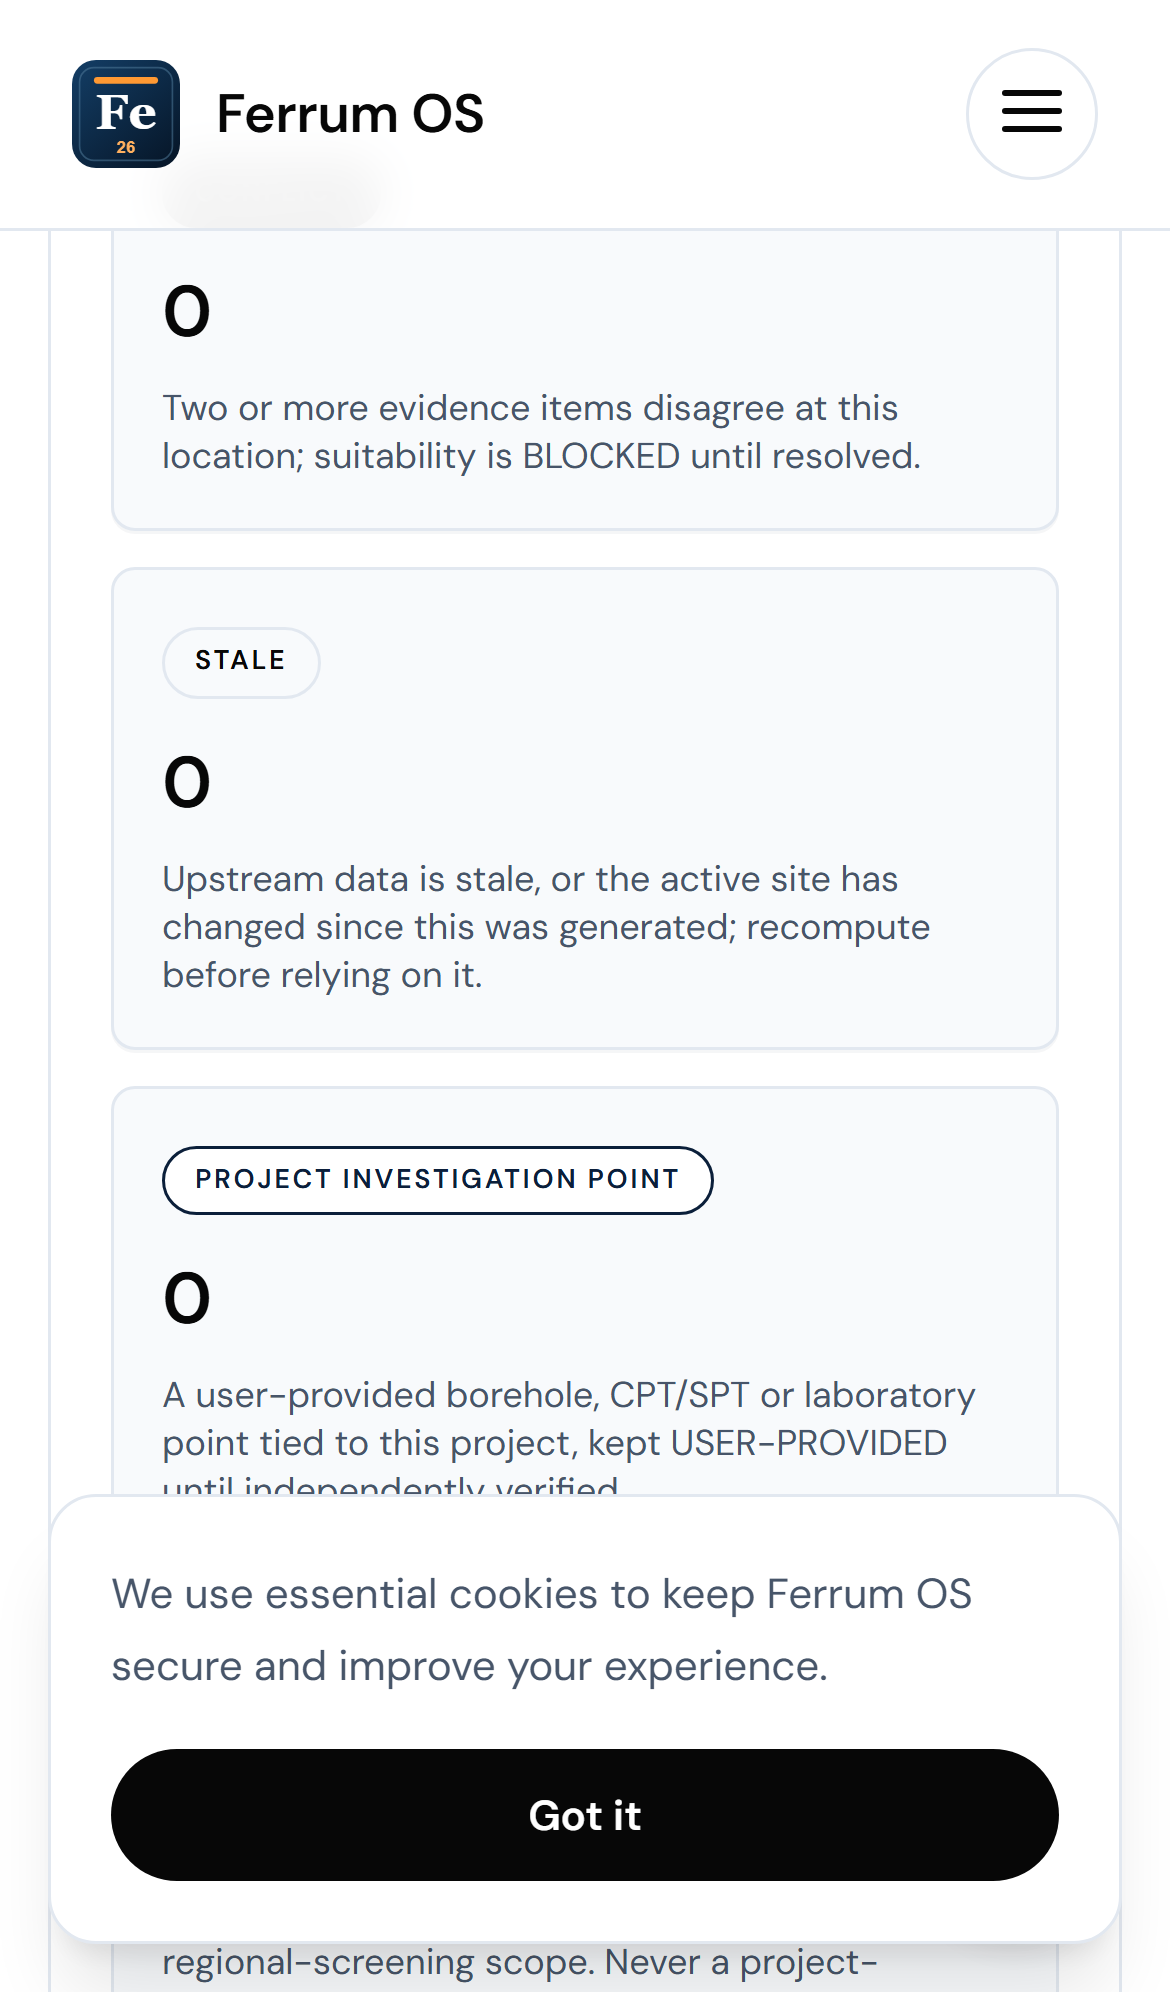
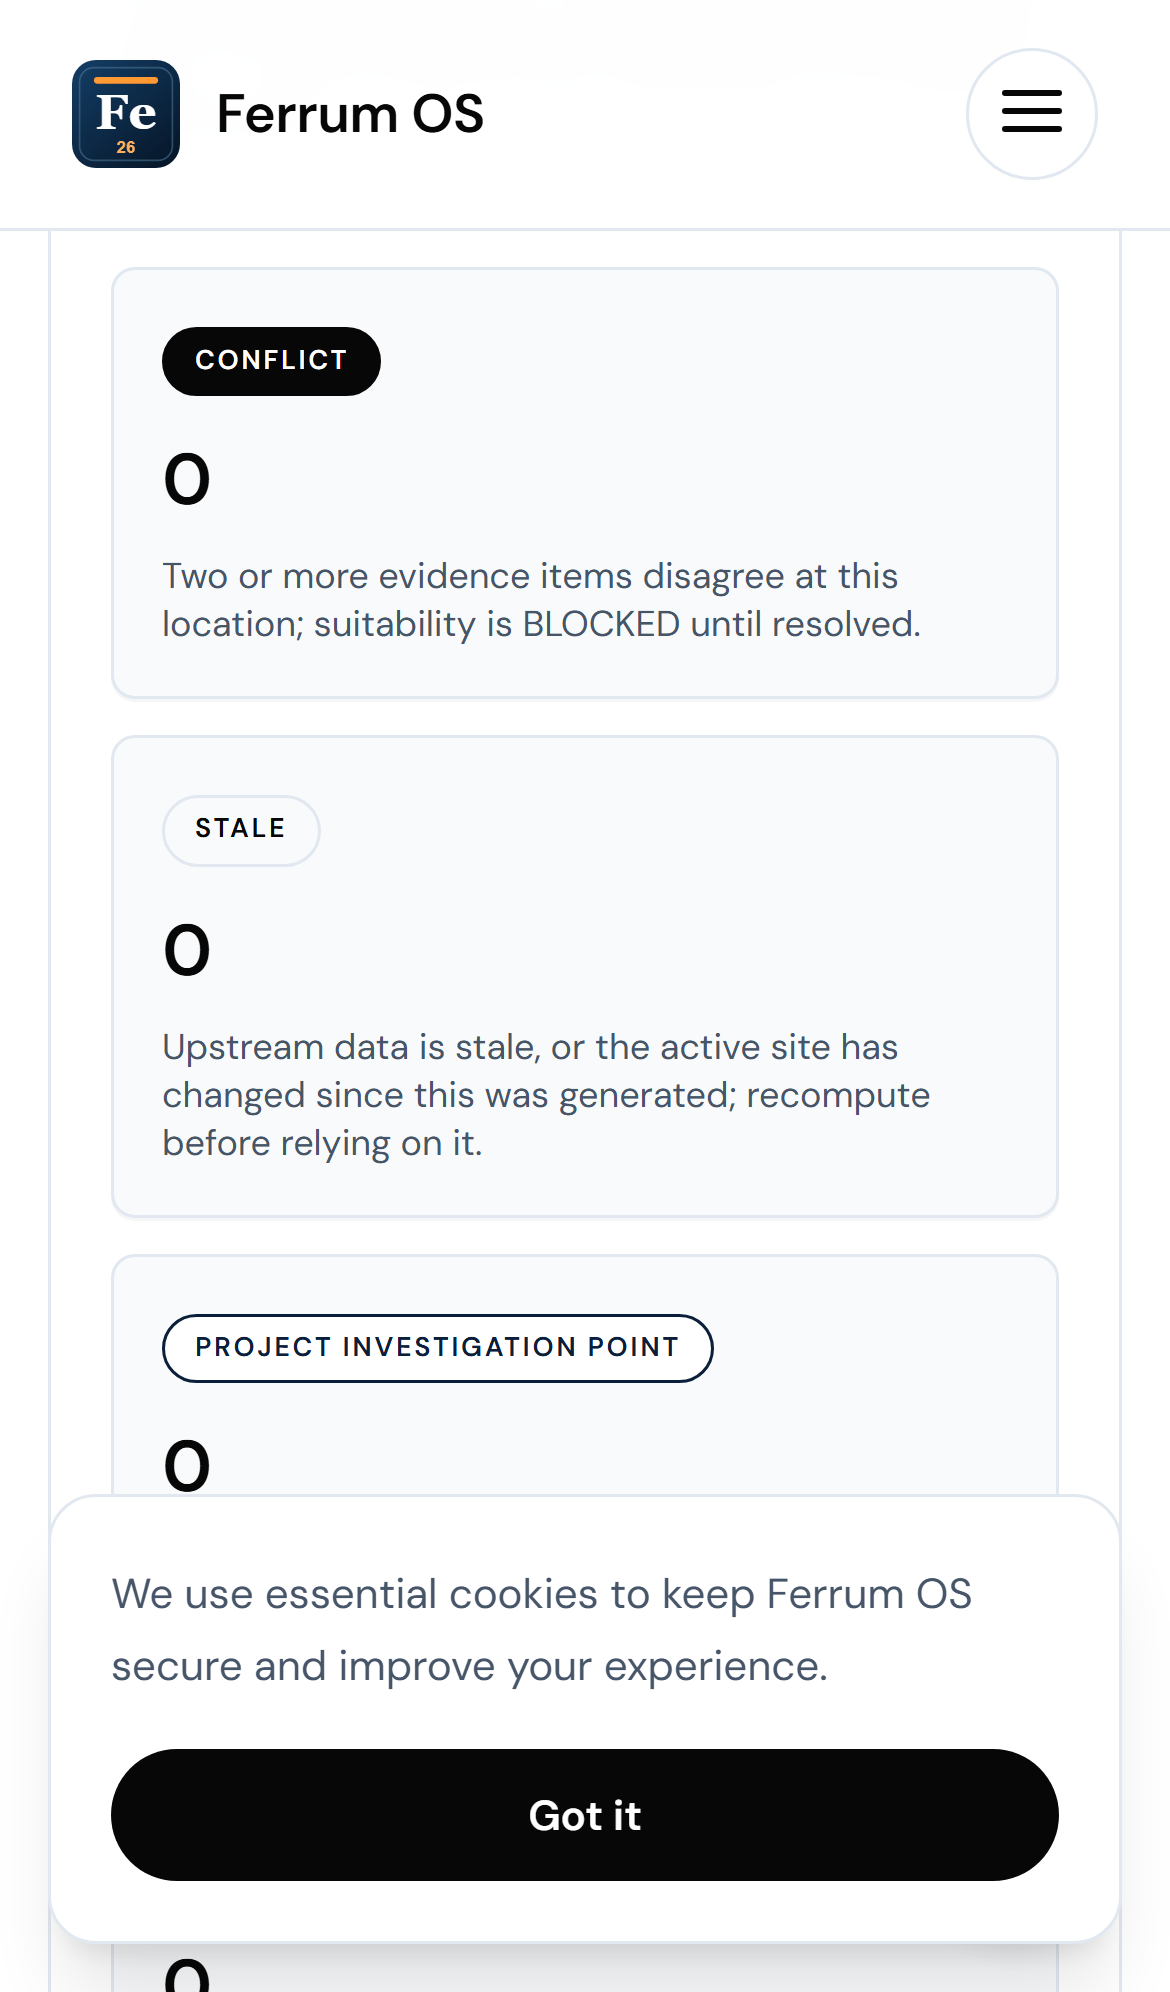
fix: separate generatedFor from live parcel context; drop map-render overclaim [AI: MASON]
Independent review found two release blockers in the prior commit and this
fixes both, same branch, no scope broadened:

1. GeotechnicalMapLayerLegend previously read `useParcelContext()` and fed
   that SAME live value into withLiveStaleness() as `generatedFor` -- so a
   parcel swap could never actually produce STALE (comparing the active
   context against itself is never stale by construction). Fixed by adding
   an explicit `generatedFor?: ParcelContext | null` prop the caller must
   supply (the context the assessment/projectInputs were actually generated
   against); useParcelContext() is now called only to trigger a re-render
   on live-site changes and its return value is never used as the
   staleness comparison target. Added a component-level regression test
   ("a real parcel swap reclassifies non-conflict items to Stale...") that
   renders with a fixed generatedFor, writes a DIFFERENT active context via
   the real writeParcelContext(), rerenders, and asserts the reclassification
   actually happens -- this test fails against the prior implementation and
   passes against the fix.

2. The panel's visible copy claimed spatial rendering behavior ("kept
   spatially distinct", "never rendered as if it were a real borehole
   point") that this component does not perform -- it computes category
   counts only draw no map geometry. Rewrote the heading and disclosure
   copy to state plainly that this is a declarative categorisation, not a
[…]

diff --git a/apps/web/components/landintel/GeotechnicalMapLayerLegend.test.tsx b/apps/web/components/landintel/GeotechnicalMapLayerLegend.test.tsx
@@ -1,7 +1,7 @@
 import { render, screen } from '@testing-library/react'
 import { beforeEach, describe, expect, it, vi } from 'vitest'
 import GeotechnicalMapLayerLegend from './GeotechnicalMapLayerLegend'
-import { useParcelContext } from '../../lib/workspace/parcelContext'
+import { useParcelContext, writeParcelContext, type ParcelContext } from '../../lib/workspace/parcelContext'
 import { assessGeotechnicalEvidence } from '../../lib/landintel/geotechnicalIntelligence'
 import type { GeotechnicalEvidence, ProjectGeotechnicalInput } from '../../lib/landintel/geotechnicalIntelligence'
 
@@ -10,8 +10,18 @@ vi.mock('../../lib/workspace/parcelContext', async () => {
   return { ...actual, useParcelContext: vi.fn() }
 })
 
+const parcelContext = (overrides: Partial<ParcelContext> = {}): ParcelContext => ({
+  version: 1, method: 'ulpin', ulpin: 'KA-BLR-0001-2024', state: 'Karnataka', district: 'Bengaluru Urban',
+  area_sqm: 1200, land_use: 'Residential', coordinates: { lat: 12.97, lng: 77.59 },
+  provenance: { source: 'Seeded D1 record', vintage: '2026-09-18', status: 'INDICATIVE' },
+  ...overrides,
+})
+
 describe('GeotechnicalMapLayerLegend', () => {
-  beforeEach(() => vi.mocked(useParcelContext).mockReturnValue(null))
+  beforeEach(() => {
+    localStorage.clear()
+    vi.mocked(useParcelContext).mockReturnValue(null)
+  })
 
   it('renders all five categories with a real description, never blank on an UNKNOWN-only screen', () => {
     render(<GeotechnicalMapLayerLegend />)
@@ -30,7 +40,14 @@ describe('GeotechnicalMapLayerLegend', () => {
     expect(screen.getByText(/DECLARATIVE ONLY -- none is wired to live credentials/)).toBeTruthy()
   })
 
-  it('keeps a project investigation point spatially distinct from a conflicting regional layer', () => {
+  it('never claims to render map geometry -- describes a declarative categorisation only', () => {
+    render(<GeotechnicalMapLayerLegend />)
+    expect(screen.getByText(/declarative categorisation, not a rendered map/)).toBeTruthy()
+    expect(screen.getByText(/no map canvas or geometry is drawn on this page/)).toBeTruthy()
+    expect(screen.queryByText(/kept spatially distinct/)).toBeNull()
+  })
+
+  it('keeps a project investigation point distinct from a conflicting regional layer', () => {
     const evidence: GeotechnicalEvidence[] = [
       { id: 'regional-a', topic: 'regional-geology-lithology', label: 'Regional geology', value: 'Alluvium', unit: null, status: 'CONFLICT', method: 'MODELLED', scope: 'REGIONAL_SCREENING', confidence: 'MEDIUM', coverage: { kind: 'REGION', label: 'Karnataka', coverageGaps: [] }, lineage: null, limitations: [], validUntil: null },
     ]
@@ -42,5 +59,42 @@ describe('GeotechnicalMapLayerLegend', () => {
     const pointCount = screen.getByText('Project investigation point').parentElement!
     expect(conflictCount.querySelector('[data-map-layer-count]')!.textContent).toBe('1')
     expect(pointCount.querySelector('[data-map-layer-count]')!.textContent).toBe('1')
+  })
+
+  it('does NOT go stale when no generatedFor context is supplied, even if the active site changes', () => {
+    const evidence: GeotechnicalEvidence[] = [
+      { id: 'regional-a', topic: 'regional-geology-lithology', label: 'Regional geology', value: 'Alluvium', unit: null, status: 'SOURCE-VERIFIED', method: 'MODELLED', scope: 'REGIONAL_SCREENING', confidence: 'MEDIUM', coverage: { kind: 'REGION', label: 'Karnataka', coverageGaps: [] }, lineage: null, limitations: [], validUntil: null },
+    ]
+    writeParcelContext(parcelContext())
+    render(<GeotechnicalMapLayerLegend assessment={assessGeotechnicalEvidence(evidence)} />)
+    expect(screen.getByText('Authoritative mapped coverage').parentElement!.querySelector('[data-map-layer-count]')!.textContent).toBe('1')
+    expect(screen.getByText('Stale').parentElement!.querySelector('[data-map-layer-count]')!.textContent).toBe('0')
+  })
+
+  it('a real parcel swap reclassifies non-conflict items to Stale, proving generatedFor is compared against the ACTIVE context, not itself', () => {
+    const generatedFor = parcelContext({ ulpin: 'KA-BLR-0001-2024', district: 'Bengaluru Urban' })
+    writeParcelContext(generatedFor)
+    const evidence: GeotechnicalEvidence[] = [
+      { id: 'regional-a', topic: 'regional-geology-lithology', label: 'Regional geology', value: 'Alluvium', unit: null, status: 'SOURCE-VERIFIED', method: 'MODELLED', scope: 'REGIONAL_SCREENING', confidence: 'MEDIUM', coverage: { kind: 'REGION', label: 'Karnataka', coverageGaps: [] }, lineage: null, limitations: [], validUntil: null },
+      { id: 'conflict-a', topic: 'seismic-hazard', label: 'Seismic hazard', value: null, unit: null, status: 'CONFLICT', method: 'MODELLED', scope: 'REGIONAL_SCREENING', confidence: 'LOW', coverage: { kind: 'REGION', label: 'Karnataka', coverageGaps: [] }, lineage: null, limitations: [], validUntil: null },
+    ]
+    const assessment = assessGeotechnicalEvidence(evidence)
+    const { rerender } = render(<GeotechnicalMapLayerLegend assessment={assessment} generatedFor={generatedFor} />)
+
+    // Still the active site: no reclassification yet.
+    expect(screen.getByText('Authoritative mapped coverage').parentElement!.querySelector('[data-map-layer-count]')!.textContent).toBe('1')
+    expect(screen.getByText('Conflict').parentElement!.querySelector('[data-map-layer-count]')!.textContent).toBe('1')
+    expect(screen.getByText('Stale').parentElement!.querySelector('[data-map-layer-count]')!.textContent).toBe('0')
+
+    // The user resolves a DIFFERENT site elsewhere in the app -- this is the
+    // real parcel-swap regression this test guards: `generatedFor` (fixed,
+    // from the caller) must be compared against the freshly-active context
+    // read at render time, never against a copy of the live value itself.
+    writeParcelContext(parcelContext({ ulpin: 'MH-PUN-0002-2024', district: 'Pune', state: 'Maharashtra' }))
+    rerender(<GeotechnicalMapLayerLegend assessment={assessment} generatedFor={generatedFor} />)
+
+    expect(screen.getByText('Authoritative mapped coverage').parentElement!.querySelector('[data-map-layer-count]')!.textContent).toBe('0')
+    expect(screen.getByText('Conflict').parentElement!.querySelector('[data-map-layer-count]')!.textContent).toBe('1')
+    expect(screen.getByText('Stale').parentElement!.querySelector('[data-map-layer-count]')!.textContent).toBe('1')
   })
 })

diff --git a/apps/web/components/landintel/GeotechnicalMapLayerLegend.tsx b/apps/web/components/landintel/GeotechnicalMapLayerLegend.tsx
@@ -14,7 +14,7 @@ import {
   withLiveStaleness,
   type MapLayerCategory,
 } from '../../lib/landintel/geotechnicalMapLayers'
-import { useParcelContext } from '../../lib/workspace/parcelContext'
+import { useParcelContext, type ParcelContext } from '../../lib/workspace/parcelContext'
 
 const CATEGORY_BADGE: Record<MapLayerCategory, string> = {
   AUTHORITATIVE_COVERAGE: 'border-relume-command bg-relume-command text-white',
@@ -25,24 +25,36 @@ const CATEGORY_BADGE: Record<MapLayerCategory, string> = {
 }
 
 /**
- * Spatial legend for LandIntel's geotechnical evidence map-layer contract
- * (lib/landintel/geotechnicalMapLayers.ts). Isolated from the cockpit/map
- * rendering surfaces (no ParcelMap/Leaflet, WorkspaceCockpit or mobile
- * dependency) -- it summarizes the five spatial categories and the
- * declarative connector registry as data, so any future map renderer
- * (cockpit-owned) can consume the same categorisation without this
- * component needing to own the map itself.
+ * Declarative category legend for LandIntel's geotechnical evidence
+ * map-layer contract (lib/landintel/geotechnicalMapLayers.ts). This
+ * component does NOT render map geometry, a map canvas, or any spatial
+ * drawing -- it lists the five categories a future map renderer (cockpit-
+ * owned) would use to place features, and shows how many currently-loaded
+ * items fall into each. Isolated from the cockpit/map rendering surfaces
+ * (no ParcelMap/Leaflet, WorkspaceCockpit or mobile dependency).
+ *
+ * `generatedFor` is the parcel context the supplied `assessment`/
+ * `projectInputs` were actually produced against -- distinct from
+ * whatever the LIVE active site is. It must be passed explicitly by the
+ * caller (e.g. captured at analysis time) rather than defaulted from
+ * `useParcelContext()`, or a parcel swap could never be detected: comparing
+ * the live context against itself is never stale by construction. The
+ * component still subscribes to the live context (`useParcelContext`)
+ * purely to re-render when the active site changes; that subscribed value
+ * is never used as the staleness comparison target.
  */
 export default function GeotechnicalMapLayerLegend({
   assessment = createUnknownGeotechnicalScreening(),
   projectInputs = [],
+  generatedFor = null,
 }: {
   assessment?: GeotechnicalAssessment
   projectInputs?: ProjectGeotechnicalInput[]
+  generatedFor?: ParcelContext | null
 }) {
-  const parcel = useParcelContext()
+  useParcelContext() // re-render on live site changes only; see generatedFor note above.
   const rawFeatures = buildGeotechnicalMapLayers(assessment.evidence, projectInputs)
-  const features = withLiveStaleness(rawFeatures, parcel)
+  const features = withLiveStaleness(rawFeatures, generatedFor)
   const summary = summarizeMapLayers(features)
   const declarativeCount = governmentGeotechnicalSources.filter((source) => source.connectorState === 'DECLARATIVE ONLY').length
 
@@ -53,12 +65,12 @@ export default function GeotechnicalMapLayerLegend({
       data-geotechnical-map-layer-legend
     >
       <div className="border-b border-relume-border p-5 sm:p-6">
-        <p className="text-xs font-semibold uppercase tracking-[0.14em] text-relume-muted">LandIntel · geotechnical map layers</p>
+        <p className="text-xs font-semibold uppercase tracking-[0.14em] text-relume-muted">LandIntel · geotechnical map-layer categories</p>
         <h2 id="geotechnical-map-layer-heading" className="mt-3 text-xl font-semibold tracking-relume-tight text-relume-ink">
-          Every spatial feature carries one honest category
+          Every item is categorised, not drawn
         </h2>
-        <p className="mt-3 max-w-3xl text-sm leading-6 text-relume-ink">
-          Authoritative mapped coverage, project investigation points, conflicts, stale areas and UNKNOWN gaps are kept spatially distinct -- a regional screening layer is never rendered as if it were a real borehole point, and a stale or disputed feature is never silently merged back into a clean result.
+        <p className="mt-3 max-w-3xl text-sm leading-6 text-relume-ink" data-geotechnical-map-layer-disclosure>
+          This is a declarative categorisation, not a rendered map: no map canvas or geometry is drawn on this page. Every evidence item and project-investigation input is classified as authoritative mapped coverage, a project investigation point, a conflict, a stale area, or an UNKNOWN gap, so that a map surface built later can place it correctly -- a regional screening item is never classified as if it were a real borehole point, and a stale or disputed item is never silently reclassified back to clean.
         </p>
         <p className="mt-2 text-xs text-relume-muted" data-geotechnical-map-layer-connector-status>
           {declarativeCount} of {governmentGeotechnicalSources.length} government source connectors are DECLARATIVE ONLY -- none is wired to live credentials or an endpoint in this build.
